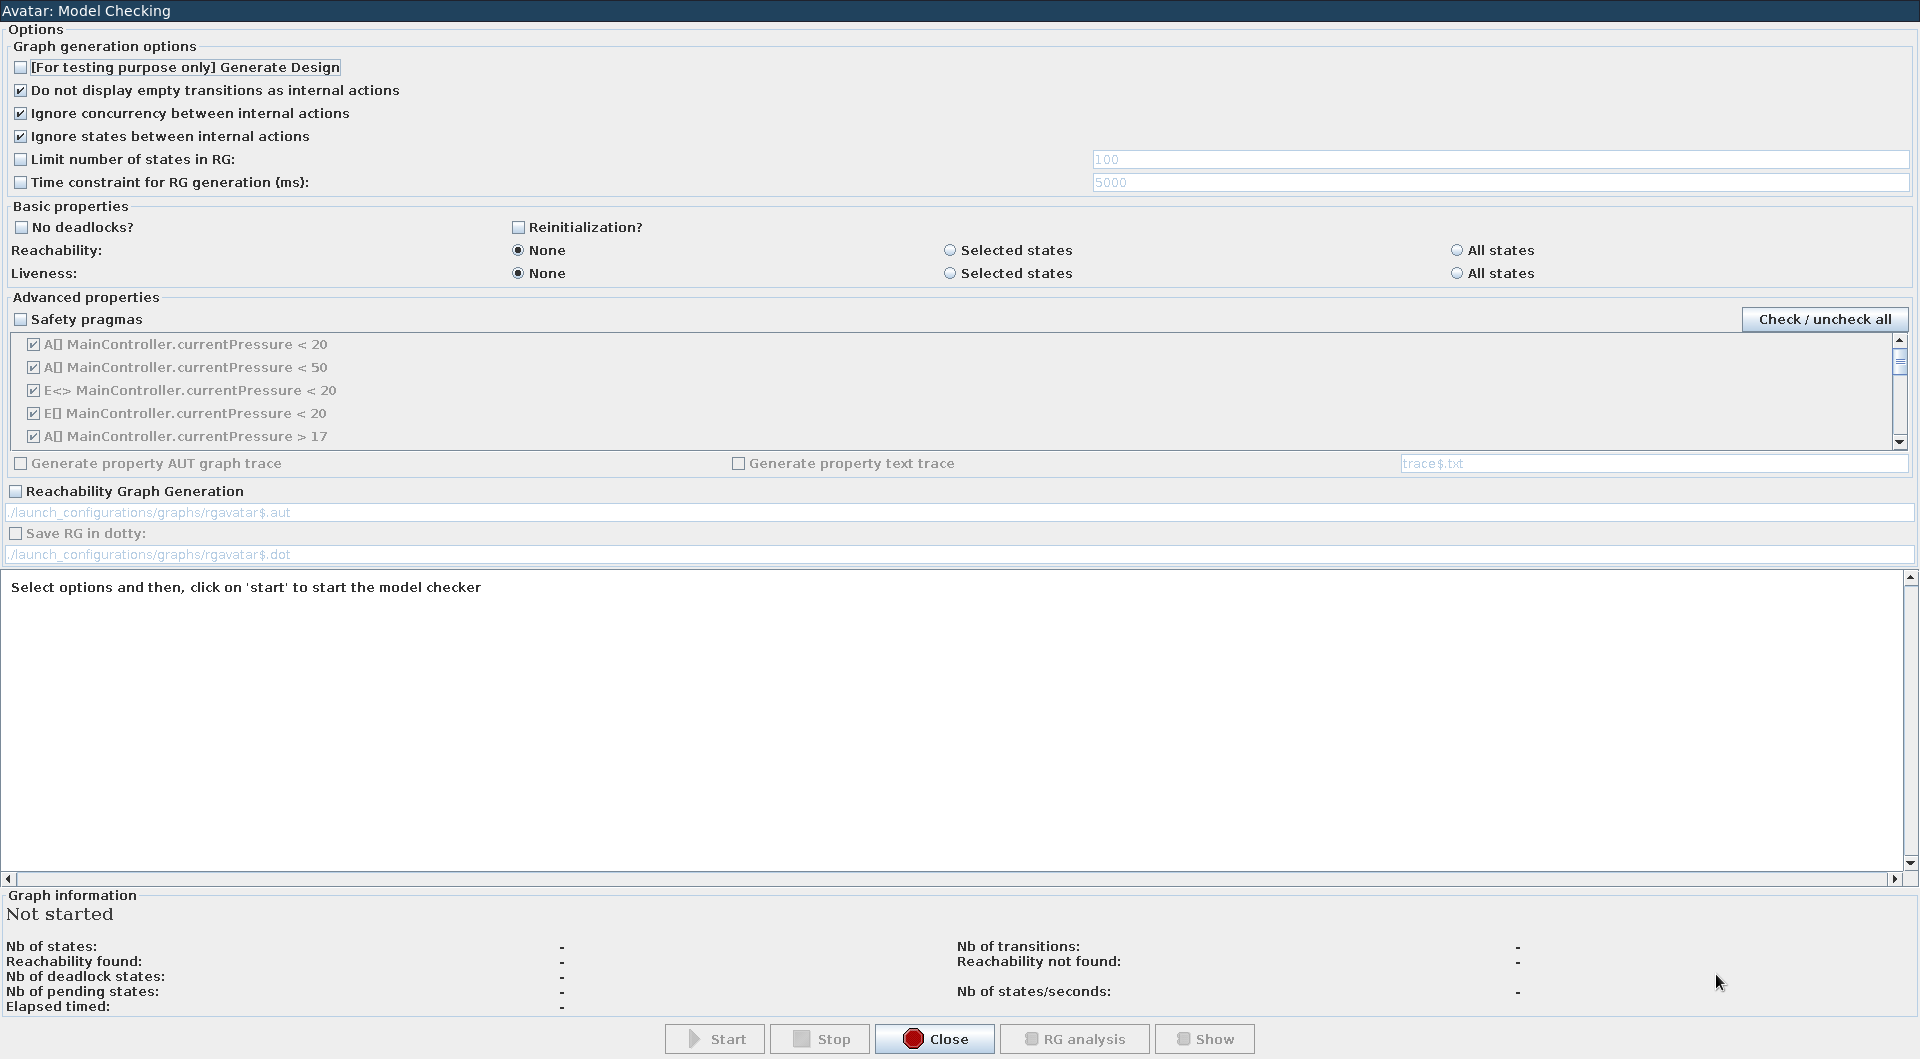
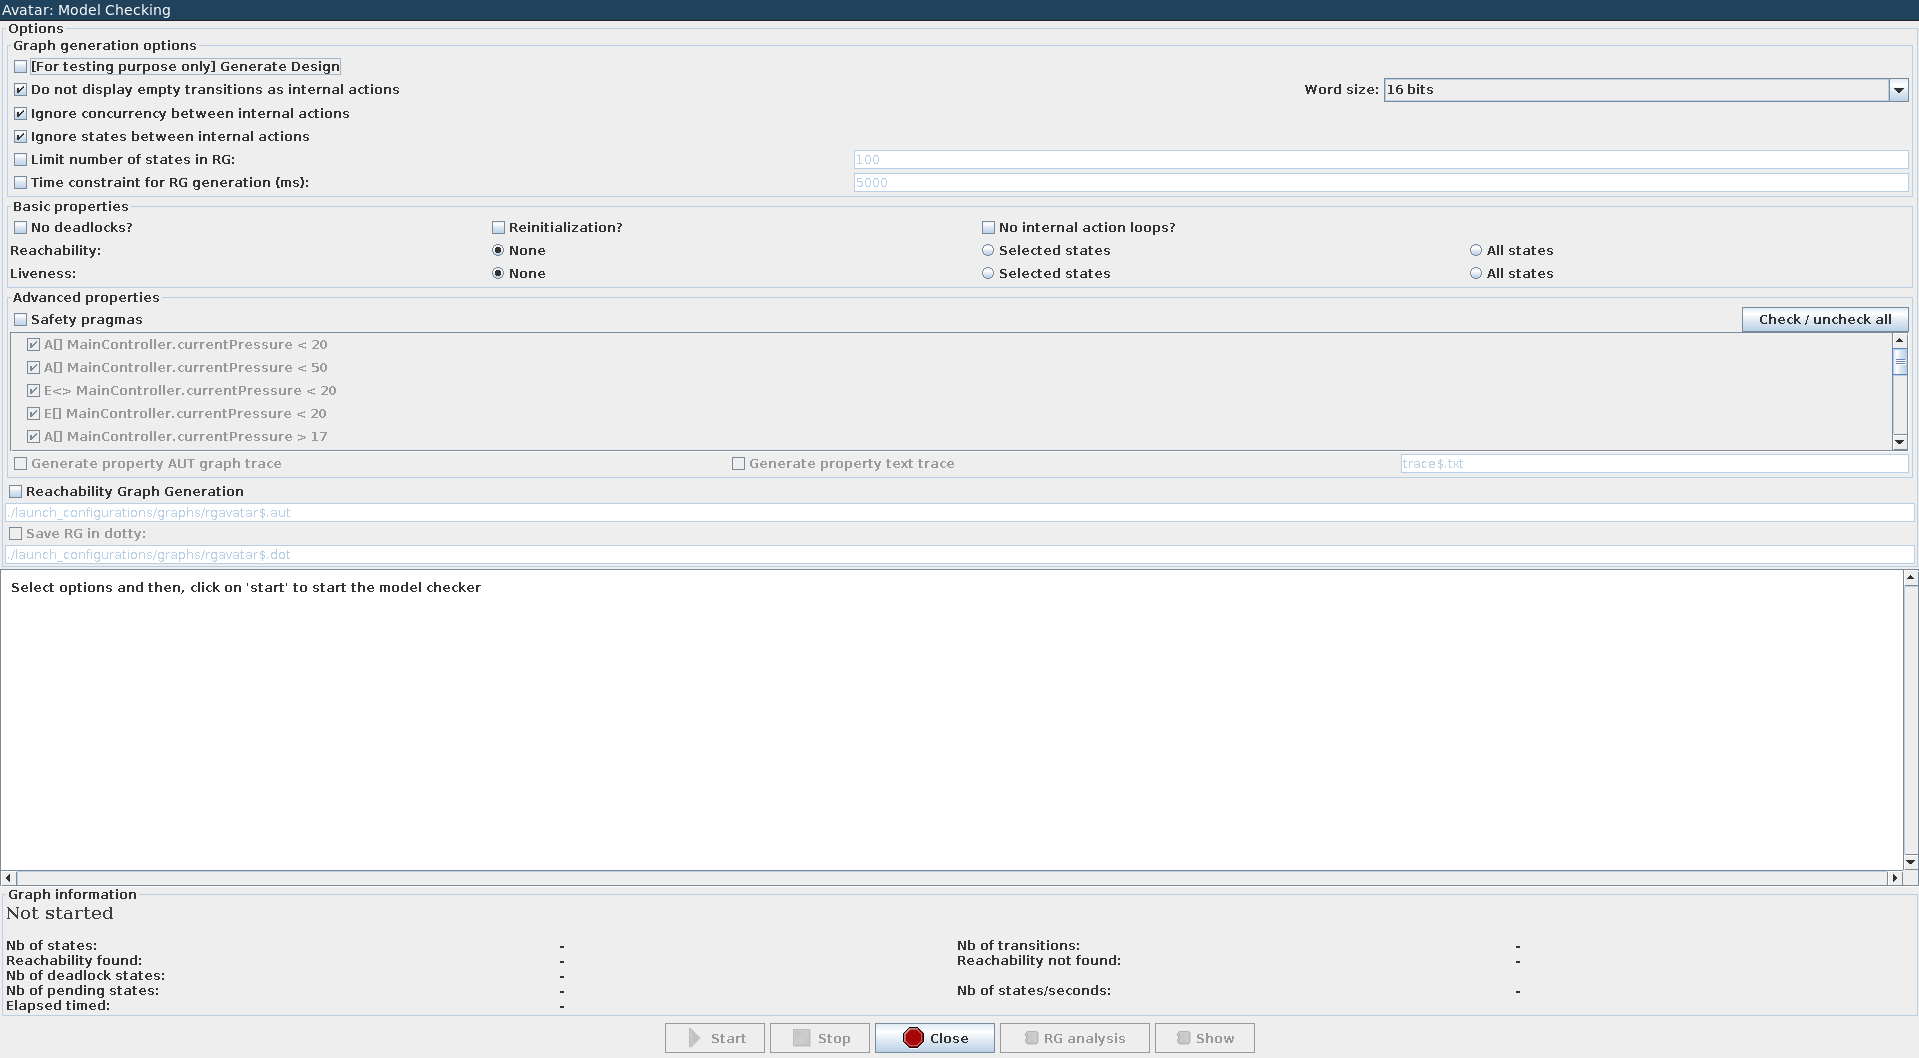
Added model-checker word size representation selection. Documentation update

diff --git a/doc/avatarmodelchecker/ttool_avatarmodelchecker.tex b/doc/avatarmodelchecker/ttool_avatarmodelchecker.tex
@@ -235,6 +235,7 @@ To start the CTL query verification, let's compile again and let's open the mode
 In this section we will explain all the features and options that are present in the AVATAR model-checker. For a reference to the model-checking window, please refer to figure \ref{fig:mcwindow}.
 \\\\The model-checker allows to generate a reachability graph and to prove properties. Starting from the top, the first section contains graph generations options. In particular:
 \begin{itemize}
+	\item \textbf{Word size}: the words can be represented on 32, 16 or 8 bits.
 	\item \textbf{Do not display empty transitions as internal states}: in the reachability graph generation, states are not created for empty transitions (no action, no time, no choice). In practice, empty transition states are collapsed together. This option does not affect the verification. Option on by default.
 	\item \textbf{Ignore concurrency between internal actions}: this option allows to ignore a full concurrency study. It is very useful to limit the state explosion of the model due to all the concurrencies among its states. It is so suggested to keep it selected to have a faster verification. This option, however, affects only in the \textit{leadsto} study, and the reachability graph generation. \textbf{Important}: basic concurrency it is evaluated also with this optimization selected. Basic concurrency means that concurrency is normally evaluated until states with multiple transitions, or if statement, or signals communication are encounted. In normal usage, you should not need to deselect this option (example in the next section \ref{sec:cb}). Option on by default.
 	\item \textbf{Ignore states between internal actions}: This option allows to ignore intermediate states between actions that can be directly executed. this optimization helps decreasing the number of states in the reachability graph generation. If  \textit{Ignore concurrency between internal actions} is not selected, this option automatically deactivated. We suggest to keep this option selected for verification as it would not affect the result. Option on by default.
@@ -245,6 +246,7 @@ The next section contains options for basic properties verification:
 \begin{itemize}
 	\item \textbf{No deadlocks}: it checks that the model is deadlock free
 	\item \textbf{Reinitialization}: it checks that, for all the paths, the model will eventually restart to the initial state
+	\item \textbf{No internal action loops}: it checks that in states machines, there are not possible infinite loops which have no interractions (signal communications) with the environment (other blocks). This check helps to detect if a system stops interracting with the environment during its execution.
 	\item \textbf{Reachability}: it checks for states reachability
 	\item \textbf{Liveness}: it checks for states liveness
 \end{itemize}
@@ -266,6 +268,7 @@ Expression \texttt{p} and \texttt{q} may be on states or variables. The format u
 	\item \textit{E<> Passenger.isInCockpit ==true \&\& DoorAndLockButton.inside==1}: there exists a path in which there is at least one state in which Passenger.isInCockpit is true and DoorAndLockButton.inside is equal to 1
 	\item \textit{A[] MainController.currentPressure < 25}: MainController.currentPressure is always less than 25
 	\item \textit{DoorAndLockButton.IN\_EMERGENCY\_CALL --> DoorAndLockButton.CLOSED\_AND\_LOCKED || DoorAndLockButton.CLOSED\_AND\_UNLOCKED}: whenever DoorAndLockButton.IN\_EMERGENCY\_CALL state is encounted, then or DoorAndLockButton.CLOSED\_AND\_LOCKED or DoorAndLockButton.CLOSED\_AND\_UNLOCKED will be encounted at some subsequent moment.
+	\item \textit{A<> Sensor.iter == Main.dataSize - 1}: all the paths reach the condition where Sensor.iter is equal to Main.dataSize - 1.
 \end{itemize}
 
 \subsection{Traces generation} \label{sec:tg}
@@ -275,8 +278,9 @@ For advanced verification queries and deadlock check, there is the possibility o
 \item \textbf{A<> p}: shows the path that disproves the property
 \item \textbf{E[] p}: shows the path that proves the property
 \item \textbf{E<> p}: shows the path that proves the property
-\item \textbf{p --> q}: shows the path that disproves the property starting from a state with p valid.
+\item \textbf{p --> q}: shows the path that disproves the property starting from a state with p valid
 \item \textbf{No deadlocks?}: shows a path to a deadlock
+\item \textbf{No internal action loops?}: shows an infinite loop that has no interraction with the environment
 \end{itemize}
 The \textbf{Generate property AUT graphs trace} option allows us to display the propery traces as a reachability graph, saving it in AUT format. An entry to the graph, with the name of the query, will appear in the \textit{R. Graphs} section in TTool.
 \\\\

diff --git a/src/main/java/ui/window/JDialogAvatarModelChecker.java b/src/main/java/ui/window/JDialogAvatarModelChecker.java
@@ -82,6 +82,7 @@ import java.util.concurrent.TimeUnit;
 public class JDialogAvatarModelChecker extends javax.swing.JFrame implements ActionListener, Runnable, MasterProcessInterface {
     private final static String[] INFOS = {"Not started", "Running", "Stopped by user", "Finished"};
     private final static Color[] COLORS = {Color.darkGray, Color.magenta, Color.red, Color.blue};
+    private final static String[] WORD_BITS = {"32 bits", "16 bits", "8 bits"};
 
 
     public final static int REACHABILITY_ALL = 1;
@@ -114,6 +115,7 @@ public class JDialogAvatarModelChecker extends javax.swing.JFrame implements Act
     protected static String stateLimitValue;
     protected static boolean limitTimeSelected = false;
     protected static String timeLimitValue;
+    protected static int wordRepresentationSelected = 1;
 
     protected MainGUI mgui;
 
@@ -144,6 +146,7 @@ public class JDialogAvatarModelChecker extends javax.swing.JFrame implements Act
     protected JButton close;
     protected JButton show;
     protected JButton display;
+    protected JComboBox wordRepresentationBox;
 
     //protected JRadioButton exe, exeint;
     //protected ButtonGroup exegroup;
@@ -272,14 +275,30 @@ public class JDialogAvatarModelChecker extends javax.swing.JFrame implements Act
             jp01.add(generateDesign, c01);
         }
 
+        c01.gridwidth = 1;
+
         ignoreEmptyTransitions = new JCheckBox("Do not display empty transitions as internal actions", ignoreEmptyTransitionsSelected);
         ignoreEmptyTransitions.addActionListener(this);
         jp01.add(ignoreEmptyTransitions, c01);
+        
+        c01.anchor = GridBagConstraints.EAST;
+        c01.fill = GridBagConstraints.NONE;
+        jp01.add(new JLabel("Word size: "), c01);
+        
+        c01.gridwidth = GridBagConstraints.REMAINDER; //end row
+        c01.anchor = GridBagConstraints.WEST;
+        c01.fill = GridBagConstraints.HORIZONTAL;
+        wordRepresentationBox = new JComboBox(WORD_BITS);
+        wordRepresentationBox.setSelectedIndex(wordRepresentationSelected);
+        wordRepresentationBox.addActionListener(this);
+        jp01.add(wordRepresentationBox, c01);
+
+
         ignoreConcurrenceBetweenInternalActions = new JCheckBox("Ignore concurrency between internal actions", ignoreConcurrenceBetweenInternalActionsSelected);
         ignoreConcurrenceBetweenInternalActions.addActionListener(this);
         jp01.add(ignoreConcurrenceBetweenInternalActions, c01);
-        ignoreInternalStates = new JCheckBox("Ignore states between internal actions",
-                ignoreInternalStatesSelected);
+
+        ignoreInternalStates = new JCheckBox("Ignore states between internal actions", ignoreInternalStatesSelected);
         ignoreInternalStates.addActionListener(this);
         jp01.add(ignoreInternalStates, c01);
         
@@ -737,7 +756,7 @@ public class JDialogAvatarModelChecker extends javax.swing.JFrame implements Act
             timer.scheduleAtFixedRate(mcm, 0, 500);
 
             // Setting options
-            amc.setCompressionFactor(2);
+            amc.setCompressionFactor(wordRepresentationSelected << 1);
             amc.setIgnoreEmptyTransitions(ignoreEmptyTransitionsSelected);
             amc.setIgnoreConcurrenceBetweenInternalActions(ignoreConcurrenceBetweenInternalActionsSelected);
             amc.setIgnoreInternalStates(ignoreInternalStatesSelected);
@@ -1116,6 +1135,7 @@ public class JDialogAvatarModelChecker extends javax.swing.JFrame implements Act
         checkNoDeadSelected = noDeadlocks.isSelected();
         checkReinitSelected = reinit.isSelected();
         checkActionLoopSelected = actionLoop.isSelected();
+        wordRepresentationSelected = wordRepresentationBox.getSelectedIndex();
 
         if (noReachability.isSelected()) {
             reachabilitySelected = REACHABILITY_NONE;
